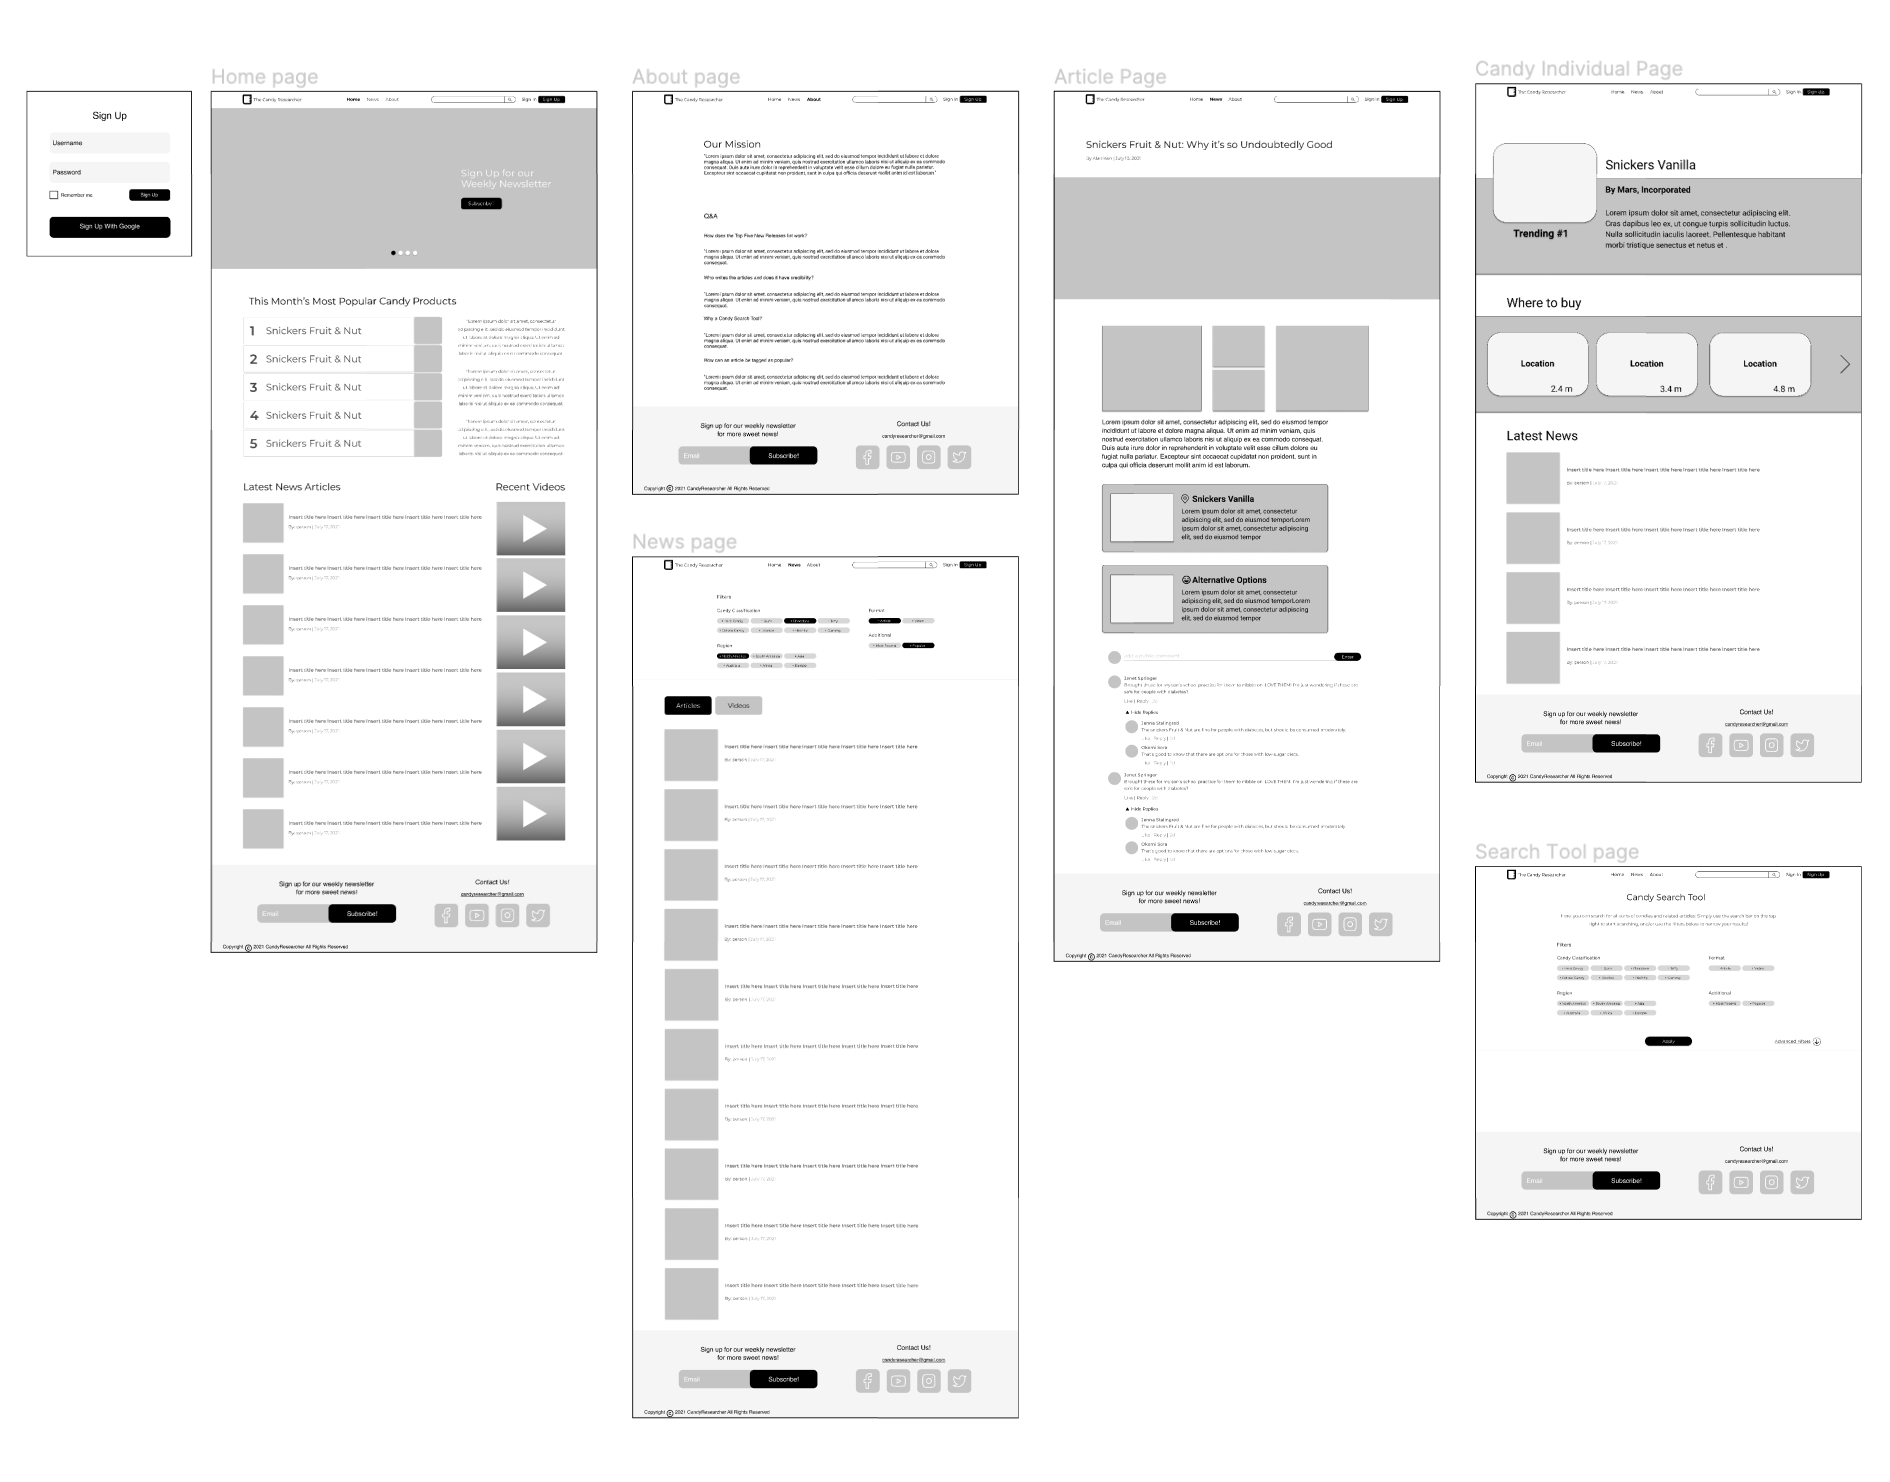
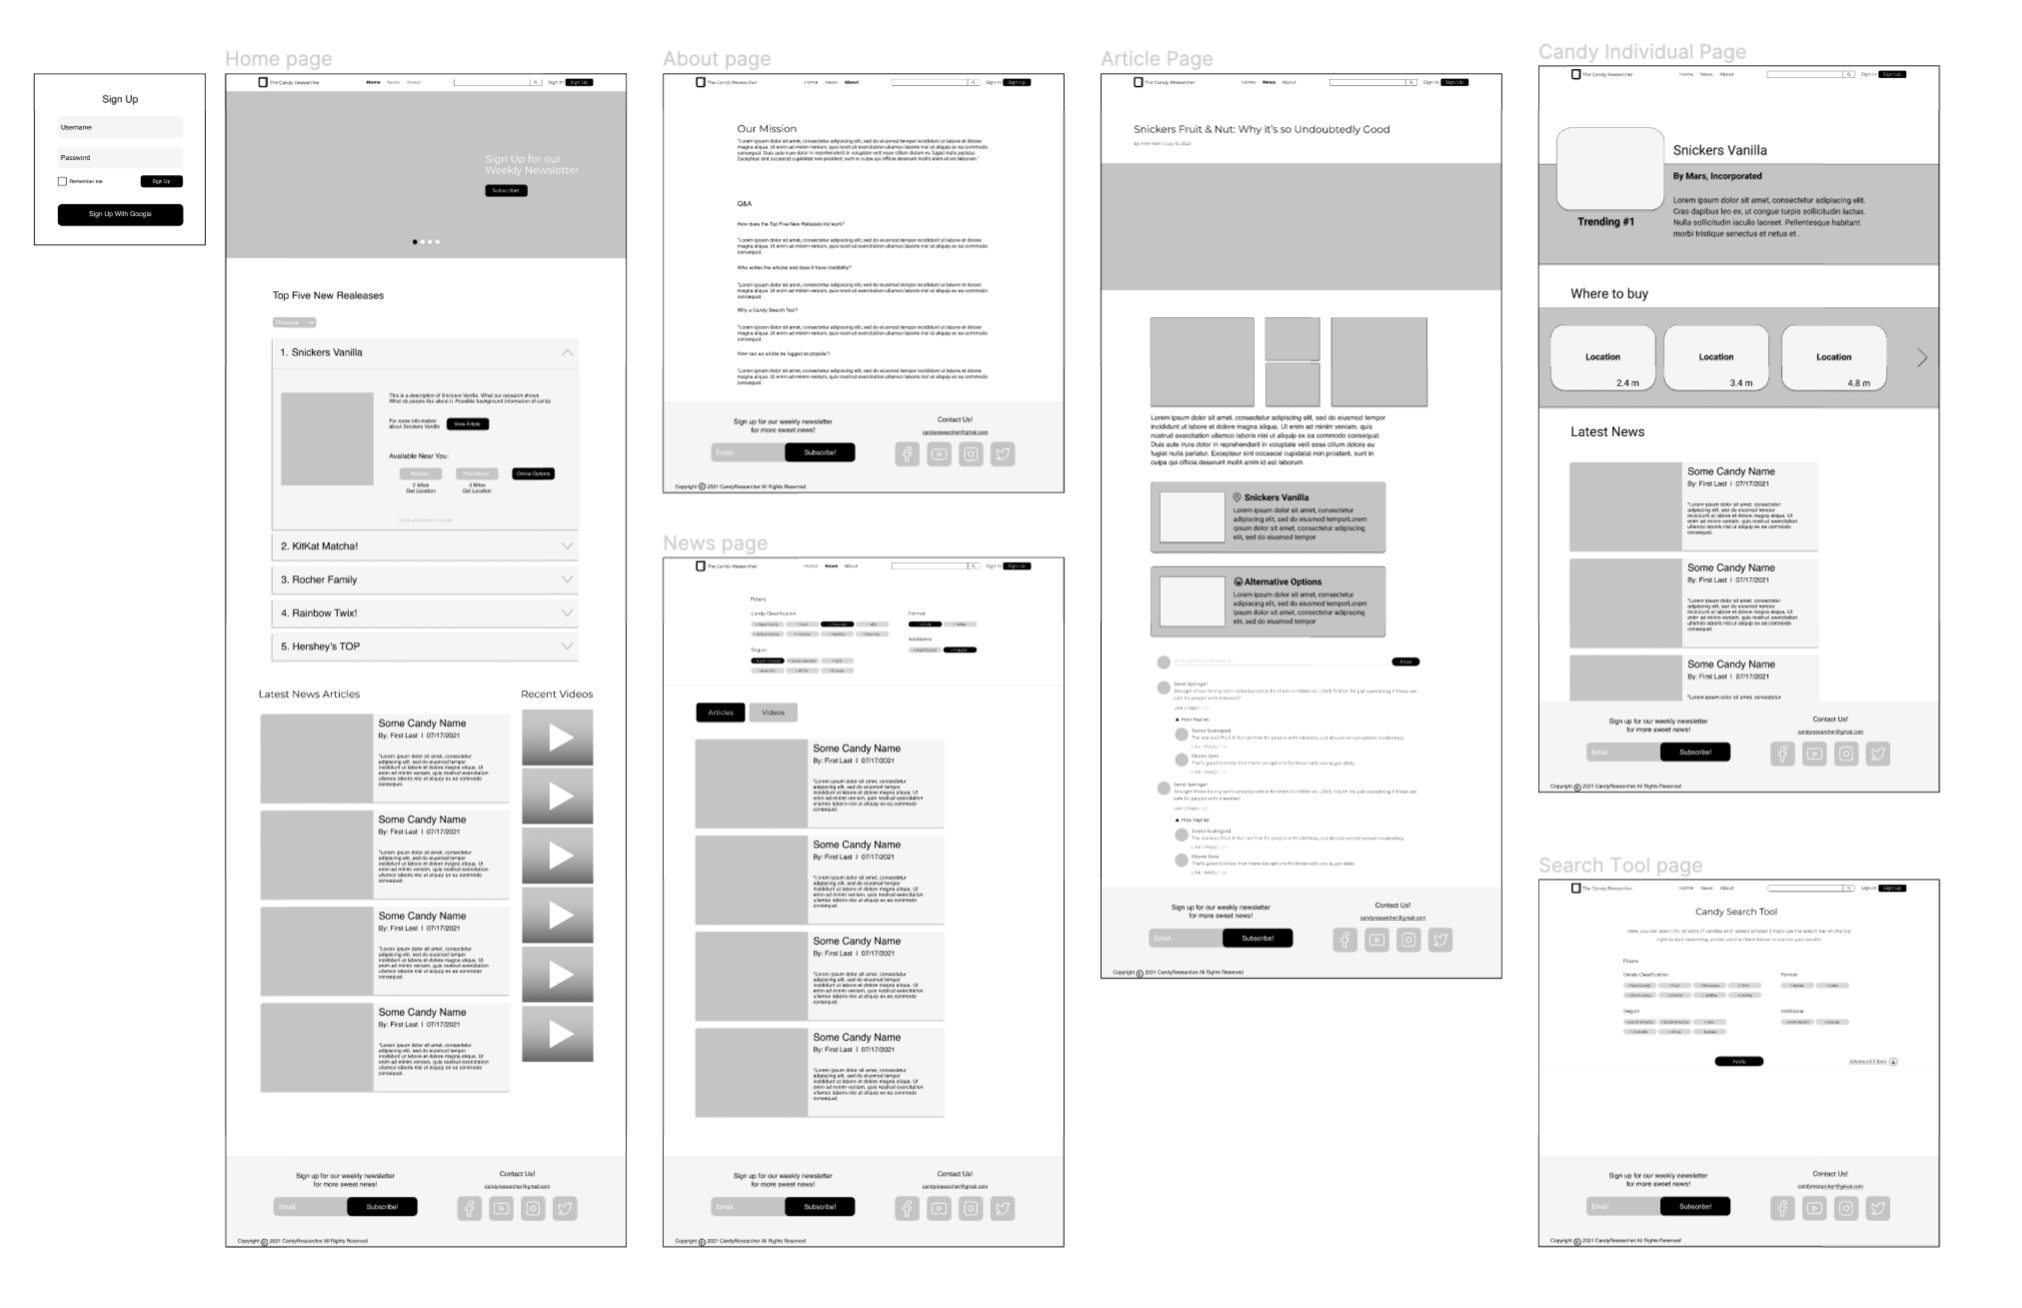
quick user feedback

diff --git a/theCandyResearcher.html b/theCandyResearcher.html
@@ -108,9 +108,10 @@
                 <h2>What we learned.</h2>
                 <p>
                     Candy news sites are extremely niche since they are catered to a specific audience (people who enjoy candy). 
-                    This is a major weakness because larger news agencies such as Business Insider can easily overshadow these sites.
-                    Therefore, directing people to subscribe to newsletters is essential to building a loyal following and reminding people that the site is still alive.
-                    We also noticed a lack of user engagement in the articles due to few user comments despite a ton of web traffic.
+                    This is a major weakness because larger news agencies such as Business Insider can easily overshadow these sites. Larger agencies tend to target a much 
+                    broader audience with a variety of topics such as business, politics, and economy. Niche sites such as the candy sites we looked at thrive because they 
+                    have a loyal following. These sites use newsletters to remind people that the site is still alive. Sadly, some of the sites don't feature the newsletters prominently or without 
+                    a strong call to action.
                 </p>
             </div>
 
@@ -198,24 +199,67 @@
                 <img src="img/candyresearcher/wireframes.png" alt="team wireframes" class="imageSize"/>
             </div>
 
-            <!-- prototype -->
+            <!-- User Feedback -->
             <div class="caseSection">
-                <h1 class="researcherHeaders">Prototype.</h1>
+                <h1 class="researcherHeaders">Quick User Feedback.</h1>
+                <p>
+                    Before we began to prototype, we wanted feedback from candy lovers to ensure that the site's features aligned 
+                    with the user's goals as well as confirming that our design choices are user-friendly. We found five candy enjoyers who we have interviewed before. 
+                    There were two design choices that they less favored compared to our other design choices.
+                </p>
+
+                <h2>Annoying Dropdowns.</h2>
+                <img src="img/candyresearcher/homeWire.png" alt="top five candies dropdowns on home page wireframe" class="imageSize"/>
+                <p>
+                    People didn't like the dropdowns on the top five new releases list because they hide essential information forcing the user to click and that gets annoying. All they wanted was the name of the product, the rank, and a product image.
+                </p>
+
+                <h2>Boring Article Layouts.</h2>
+                <img src="img/candyresearcher/newsWire.png" alt="article layout on news page wireframe" class="imageSize"/>
+                <p>
+                    People also thought that the layout of the articles on the news page made the site seem boring in that nothing seems interesting to click on.
+                    They also expressed concern about the length of the article description. They didn't want to read a paragraph description before even seeing the article itself.
+                </p>
             </div>
 
+            <!-- Get Inspired -->
+            <!-- <div class="caseSection">
+                <h1 class="researcherHeaders">Finding the Idea.</h1>
+            </div>      -->
+            
+            <!-- prototype -->
+            <!-- <div class="caseSection">
+                <h1 class="researcherHeaders">Prototype.</h1>
+            </div> -->
+
+            <!-- Usability testing -->
+            <!-- <div class="caseSection">
+                <h1 class="researcherHeaders">Usability Testing.</h1>
+            </div> -->
+
+            <!-- takeaways -->
+            <!-- <div class="caseSection">
+                <h1 class="researcherHeaders">Takeaways.</h1>
+            </div> -->
+
+            <!-- what is next -->
+            <!-- <div class="caseSection">
+                <h1 class="researcherHeaders">Next Steps.</h1>
+            </div> -->
+
             <!-- promote next project -->
-            <div class="promoteNext">
+            <!-- <div class="promoteNext">
                 <hr />
                 <h1>Next Project:</h1>
                 <a href="zoom.html"><img class="caseStudy" src="img/zoom.png" alt="big clickable button to the case study: zoom"/></a>
-            </div>
+            </div> -->
         </main>
 
-        <footer>
+        <!-- <footer>
             <p>Feel free to contact me!</p>
             <a href="mailto:lodt548@gmail.com">Email</a>
             <a href="https://www.linkedin.com/in/eddy-peng/" target="_blank">Linkedin</a>
-        </footer>
+        </footer> -->
     </body>
 
 </html>
